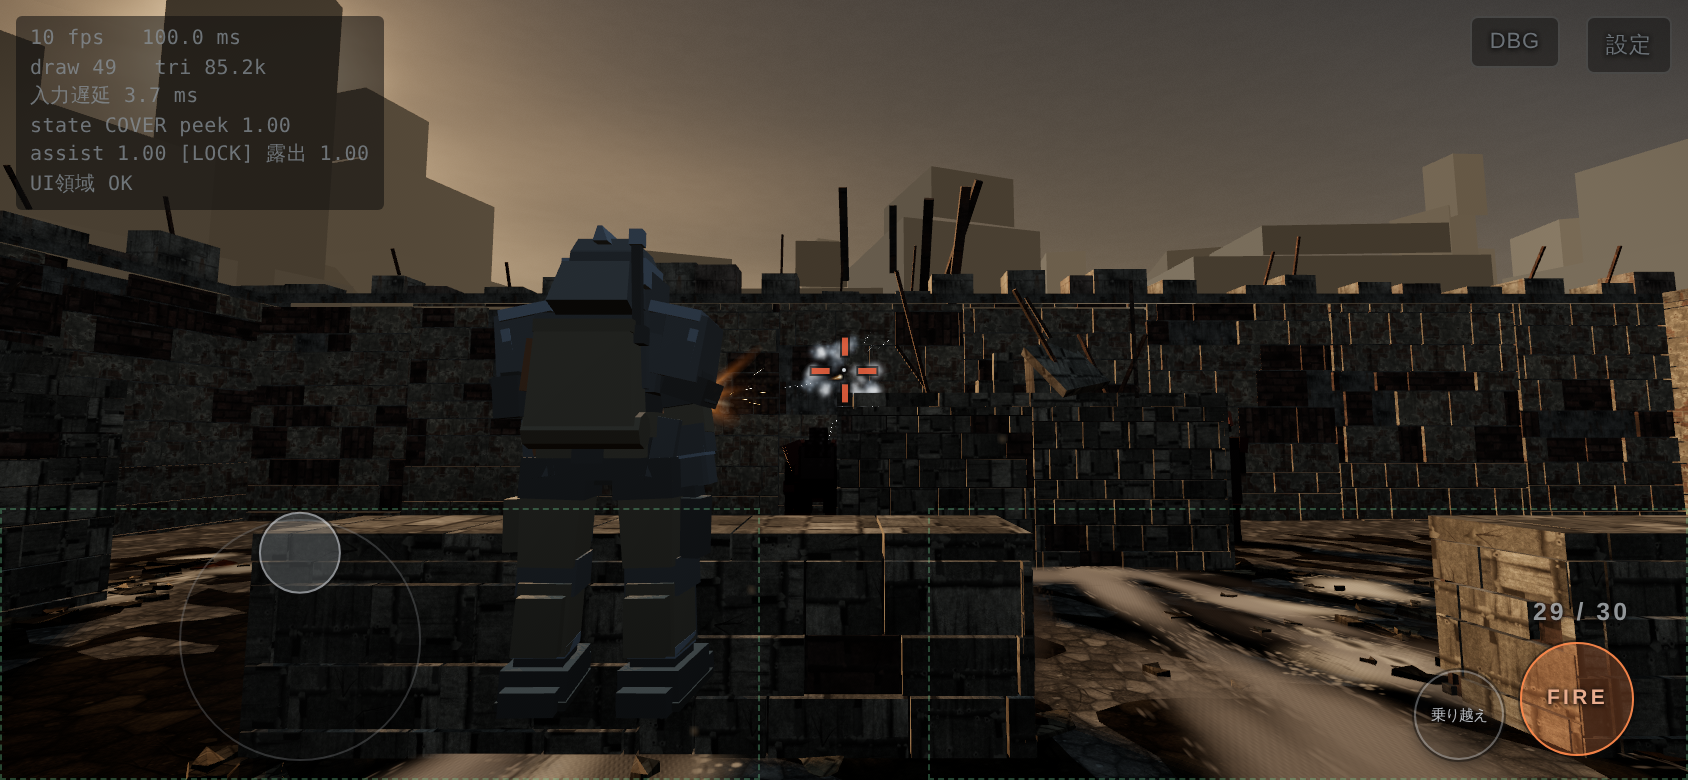
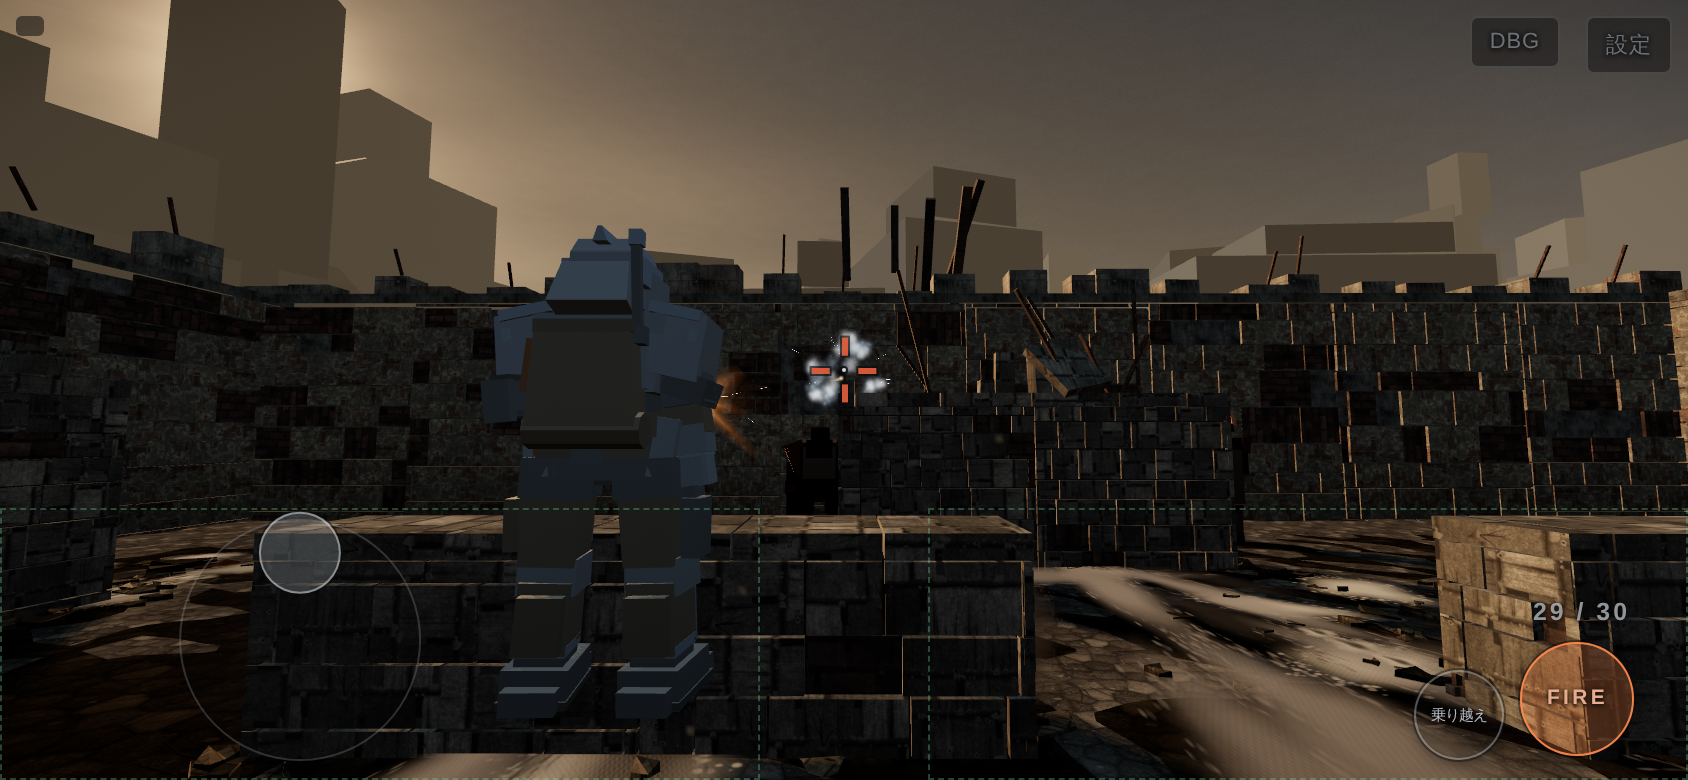
シルエット読解性は1点。陣営色を明度で分離（批評の実測目標値に従う）
■ シルエット読解性の批評結果：1点 / 4点
最も致命的な指摘は、モデルではなくアリーナ配置の問題だった：
「実交戦距離の中央レーンでは、敵のシルエットが空に一画素も接しない」
11.9m地点で突撃型28×44px・狙撃型27×50px、いずれも環境の黒に背面を取られた
面積の割合 1.000（空接触画素ゼロ）。14.4mでも同じ。
原因は COVERS[5]={x:0,z:-9.4,hx:2.30,h:2.05} が敵の主進入路の真後ろに
幅4.6mの暗幕として立っていること。逆投影で黒帯の上端を実測すると、
15点中13点で敵の全高より0.24〜1.9m高い。

■ 批評が実測で暴いた、制作担当の自己申告の誤り
- 敵担当「狙撃型と自機が最も近い」→ 逆。最も混同するのは自機と突撃型
  （正規化IoU 0.798 対 0.448）
- 敵担当「突撃型＝横に広い／狙撃型＝細い」→ 狙撃型のほうが12%幅広い
  （1.185m 対 1.058m）。画面上の幅の差は12mで1ピクセル
- 自機担当「明線として輪郭が残る」→ 明線は色の話で黒塗り条件では成立しない。
  カバー中に読めるのは33×10pxの塊ひとつ（全輪郭の4.3%）

■ 私が実行した修正：陣営色を明度で分離
彩度を落とした際に明度を確認していなかったため、自機の装甲(0x55595e)と
暗色コンクリート(0x5f584e)の相対輝度がほぼ同一（コントラスト比1.005:1）だった。
彩度は据え置いたまま明度だけを動かした。

  自機 vs 暗色コンクリート  1.005:1 -> 1.806:1（批評の目標 1.7）
  敵   vs 地面              1.183:1 -> 1.713:1（目標 1.6）
  自機 vs 敵                1.249:1 -> 3.285:1（目標 2.5）

■ 保留した変更（発注者の判断を仰ぐ）
アリーナ中央の高い壁を x=±4.2 の2本に割る案は、当たり判定と3波構成の設計を
変えるため保留。批評の算出では12m地点で突撃型の上32%・狙撃型の41%が空に抜ける。

検証：全12モジュール搭載でリグレッション86項目すべて通過、JSエラーなし。

Claude-Session: https://claude.ai/code/session_01WWzq8eyFFA5BGV3pj9UJTc

diff --git a/ashline.html b/ashline.html
@@ -195,16 +195,19 @@ function(t,e){"object"==typeof exports&&"undefined"!=typeof module?e(exports):"f
     grime: 0x2a2521,         // 汚れの乗算色
 
     /* ---- 素材：陣営 ---------------------------------------------------- */
-    // 自機：冷たい灰。彩度は環境（S≈0.14）に合わせ、識別は色相ではなく明度と形で行う。
-    // 0x49535e は彩度0.223で環境より高く、暖色の画面から青く浮いていた（実測）。
-    playerArmor: 0x55595e,
-    playerArmorDark: 0x33363b,
+    // 自機：冷たい灰。彩度は環境（S≈0.14）に合わせ、識別は色相ではなく明度で行う。
+    // 0x49535e は彩度0.223で環境より高く暖色の画面から青く浮いていた。
+    // その後 0x55595e に落としたが、今度は暗色コンクリート(0x5f584e)と
+    // 相対輝度がほぼ同一（コントラスト比1.005:1）で明度でも分離できていなかった（実測）。
+    // 彩度は据え置いたまま明度だけを上げ、環境から抜く。
+    playerArmor: 0x7c8288,
+    playerArmorDark: 0x4d5257,
     playerCloth: 0x6d6353,
     playerTrim: 0x9aa6b2,
 
-    // 敵：鈍い酸化鉄。自機と色相を180度離す
-    enemyArmor: 0x6b3f33,
-    enemyArmorDark: 0x3a221c,
+    // 敵：鈍い酸化鉄。自機とは色相ではなく明度で離す（自機を上へ、敵を下へ）
+    enemyArmor: 0x4a2a22,
+    enemyArmorDark: 0x2a1712,
     enemyCloth: 0x554438,
     enemyTrim: 0xa86b4b,
 

diff --git a/ashline/artifact.html b/ashline/artifact.html
@@ -194,16 +194,19 @@ function(t,e){"object"==typeof exports&&"undefined"!=typeof module?e(exports):"f
     grime: 0x2a2521,         // 汚れの乗算色
 
     /* ---- 素材：陣営 ---------------------------------------------------- */
-    // 自機：冷たい灰。彩度は環境（S≈0.14）に合わせ、識別は色相ではなく明度と形で行う。
-    // 0x49535e は彩度0.223で環境より高く、暖色の画面から青く浮いていた（実測）。
-    playerArmor: 0x55595e,
-    playerArmorDark: 0x33363b,
+    // 自機：冷たい灰。彩度は環境（S≈0.14）に合わせ、識別は色相ではなく明度で行う。
+    // 0x49535e は彩度0.223で環境より高く暖色の画面から青く浮いていた。
+    // その後 0x55595e に落としたが、今度は暗色コンクリート(0x5f584e)と
+    // 相対輝度がほぼ同一（コントラスト比1.005:1）で明度でも分離できていなかった（実測）。
+    // 彩度は据え置いたまま明度だけを上げ、環境から抜く。
+    playerArmor: 0x7c8288,
+    playerArmorDark: 0x4d5257,
     playerCloth: 0x6d6353,
     playerTrim: 0x9aa6b2,
 
-    // 敵：鈍い酸化鉄。自機と色相を180度離す
-    enemyArmor: 0x6b3f33,
-    enemyArmorDark: 0x3a221c,
+    // 敵：鈍い酸化鉄。自機とは色相ではなく明度で離す（自機を上へ、敵を下へ）
+    enemyArmor: 0x4a2a22,
+    enemyArmorDark: 0x2a1712,
     enemyCloth: 0x554438,
     enemyTrim: 0xa86b4b,
 

diff --git a/ashline/art/palette.js b/ashline/art/palette.js
@@ -52,16 +52,19 @@
     grime: 0x2a2521,         // 汚れの乗算色
 
     /* ---- 素材：陣営 ---------------------------------------------------- */
-    // 自機：冷たい灰。彩度は環境（S≈0.14）に合わせ、識別は色相ではなく明度と形で行う。
-    // 0x49535e は彩度0.223で環境より高く、暖色の画面から青く浮いていた（実測）。
-    playerArmor: 0x55595e,
-    playerArmorDark: 0x33363b,
+    // 自機：冷たい灰。彩度は環境（S≈0.14）に合わせ、識別は色相ではなく明度で行う。
+    // 0x49535e は彩度0.223で環境より高く暖色の画面から青く浮いていた。
+    // その後 0x55595e に落としたが、今度は暗色コンクリート(0x5f584e)と
+    // 相対輝度がほぼ同一（コントラスト比1.005:1）で明度でも分離できていなかった（実測）。
+    // 彩度は据え置いたまま明度だけを上げ、環境から抜く。
+    playerArmor: 0x7c8288,
+    playerArmorDark: 0x4d5257,
     playerCloth: 0x6d6353,
     playerTrim: 0x9aa6b2,
 
-    // 敵：鈍い酸化鉄。自機と色相を180度離す
-    enemyArmor: 0x6b3f33,
-    enemyArmorDark: 0x3a221c,
+    // 敵：鈍い酸化鉄。自機とは色相ではなく明度で離す（自機を上へ、敵を下へ）
+    enemyArmor: 0x4a2a22,
+    enemyArmorDark: 0x2a1712,
     enemyCloth: 0x554438,
     enemyTrim: 0xa86b4b,
 
